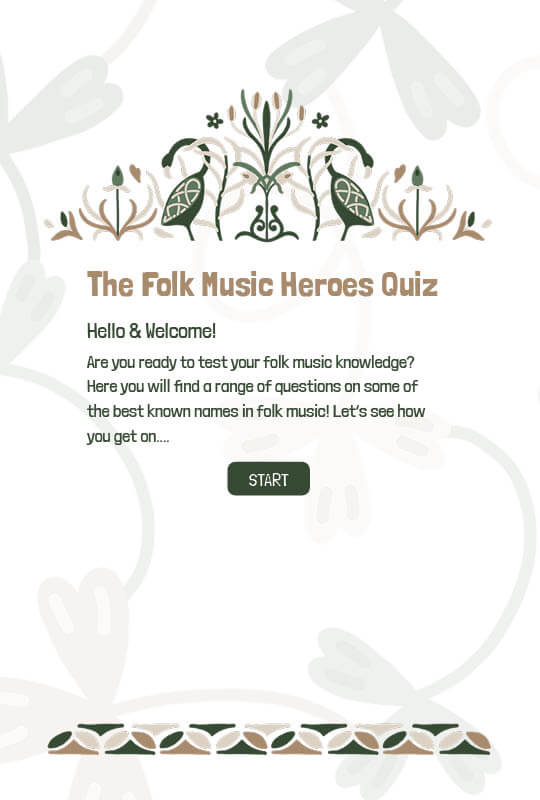
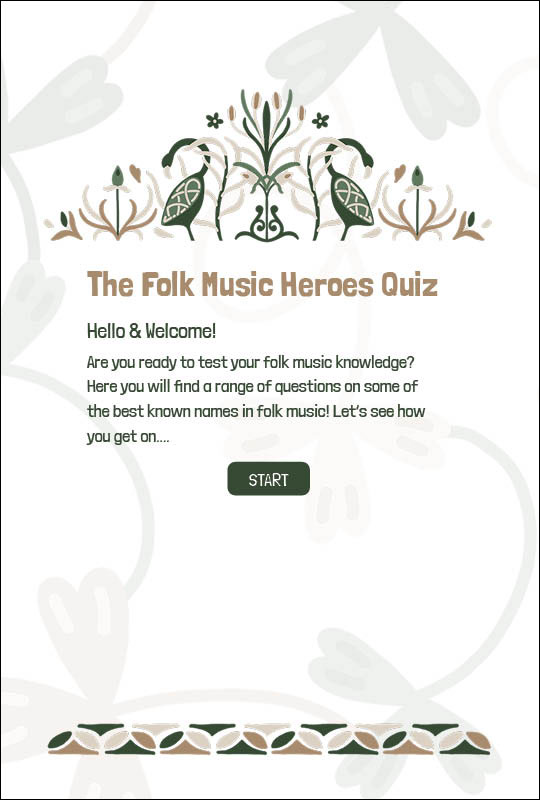
Add updated wireframe imagery with stroke applied

Changed region(s): [[0.9778, 0.9688, 1.0, 1.0], [0.9778, 0.0, 1.0, 0.0312]]

diff --git a/README.md b/README.md
@@ -60,26 +60,26 @@ Initial wireframes were created in InDesign for a basic visual of pages on deskt
 
 ### **Desktop Wireframes**
   <tr>
-    <td><img src="assets/readme-images/desktop_wireframe.jpg" style="border: 1px solid black" width=45%></td>
-    <td><img src="assets/readme-images/desktop_wireframe2.jpg" style="border: 1px solid black" width=45%></td>
-    <td><img src="assets/readme-images/desktop_wireframe3.jpg" style="border: 1px solid black" width=45%></td>
-    <td><img src="assets/readme-images/desktop_wireframe4.jpg" style="border: 1px solid black" width=45%></td>
-    <td><img src="assets/readme-images/desktop_wireframe5.jpg" style="border: 1px solid black" width=45%></td>
-    <td><img src="assets/readme-images/desktop_wireframe6.jpg" style="border: 1px solid black" width=45%></td>
-    <td><img src="assets/readme-images/desktop_wireframe7.jpg" style="border: 1px solid black" width=45%></td>
+    <td><img src="assets/readme-images/desktop_wireframe.jpg" width=45%></td>
+    <td><img src="assets/readme-images/desktop_wireframe2.jpg" width=45%></td>
+    <td><img src="assets/readme-images/desktop_wireframe3.jpg" width=45%></td>
+    <td><img src="assets/readme-images/desktop_wireframe4.jpg" width=45%></td>
+    <td><img src="assets/readme-images/desktop_wireframe5.jpg" width=45%></td>
+    <td><img src="assets/readme-images/desktop_wireframe6.jpg" width=45%></td>
+    <td><img src="assets/readme-images/desktop_wireframe7.jpg" width=45%></td>
   </tr>
 
 [Back to top](<#contents>)
 
 ### **Smaller Devices Wireframes**
  <tr>
-    <td><img src="assets/readme-images/small_devices_wireframe.jpg" style="border: 1px solid black" width=45%></td>
-    <td><img src="assets/readme-images/small_devices_wireframe2.jpg" style="border: 1px solid black" width=45%></td>
-    <td><img src="assets/readme-images/small_devices_wireframe3.jpg" style="border: 1px solid black" width=45%></td>
-    <td><img src="assets/readme-images/small_devices_wireframe4.jpg" style="border: 1px solid black" width=45%></td>
-    <td><img src="assets/readme-images/small_devices_wireframe5.jpg" style="border: 1px solid black" width=45%></td>
-    <td><img src="assets/readme-images/small_devices_wireframe6.jpg" style="border: 1px solid black" width=45%></td>
-    <td><img src="assets/readme-images/small_devices_wireframe7.jpg" style="border: 1px solid black" width=45%></td>
+    <td><img src="assets/readme-images/small_devices_wireframe.jpg" width=45%></td>
+    <td><img src="assets/readme-images/small_devices_wireframe2.jpg" width=45%></td>
+    <td><img src="assets/readme-images/small_devices_wireframe3.jpg" width=45%></td>
+    <td><img src="assets/readme-images/small_devices_wireframe4.jpg" width=45%></td>
+    <td><img src="assets/readme-images/small_devices_wireframe5.jpg" width=45%></td>
+    <td><img src="assets/readme-images/small_devices_wireframe6.jpg" width=45%></td>
+    <td><img src="assets/readme-images/small_devices_wireframe7.jpg" width=45%></td>
   </tr>
 
 [Back to top](<#contents>)
